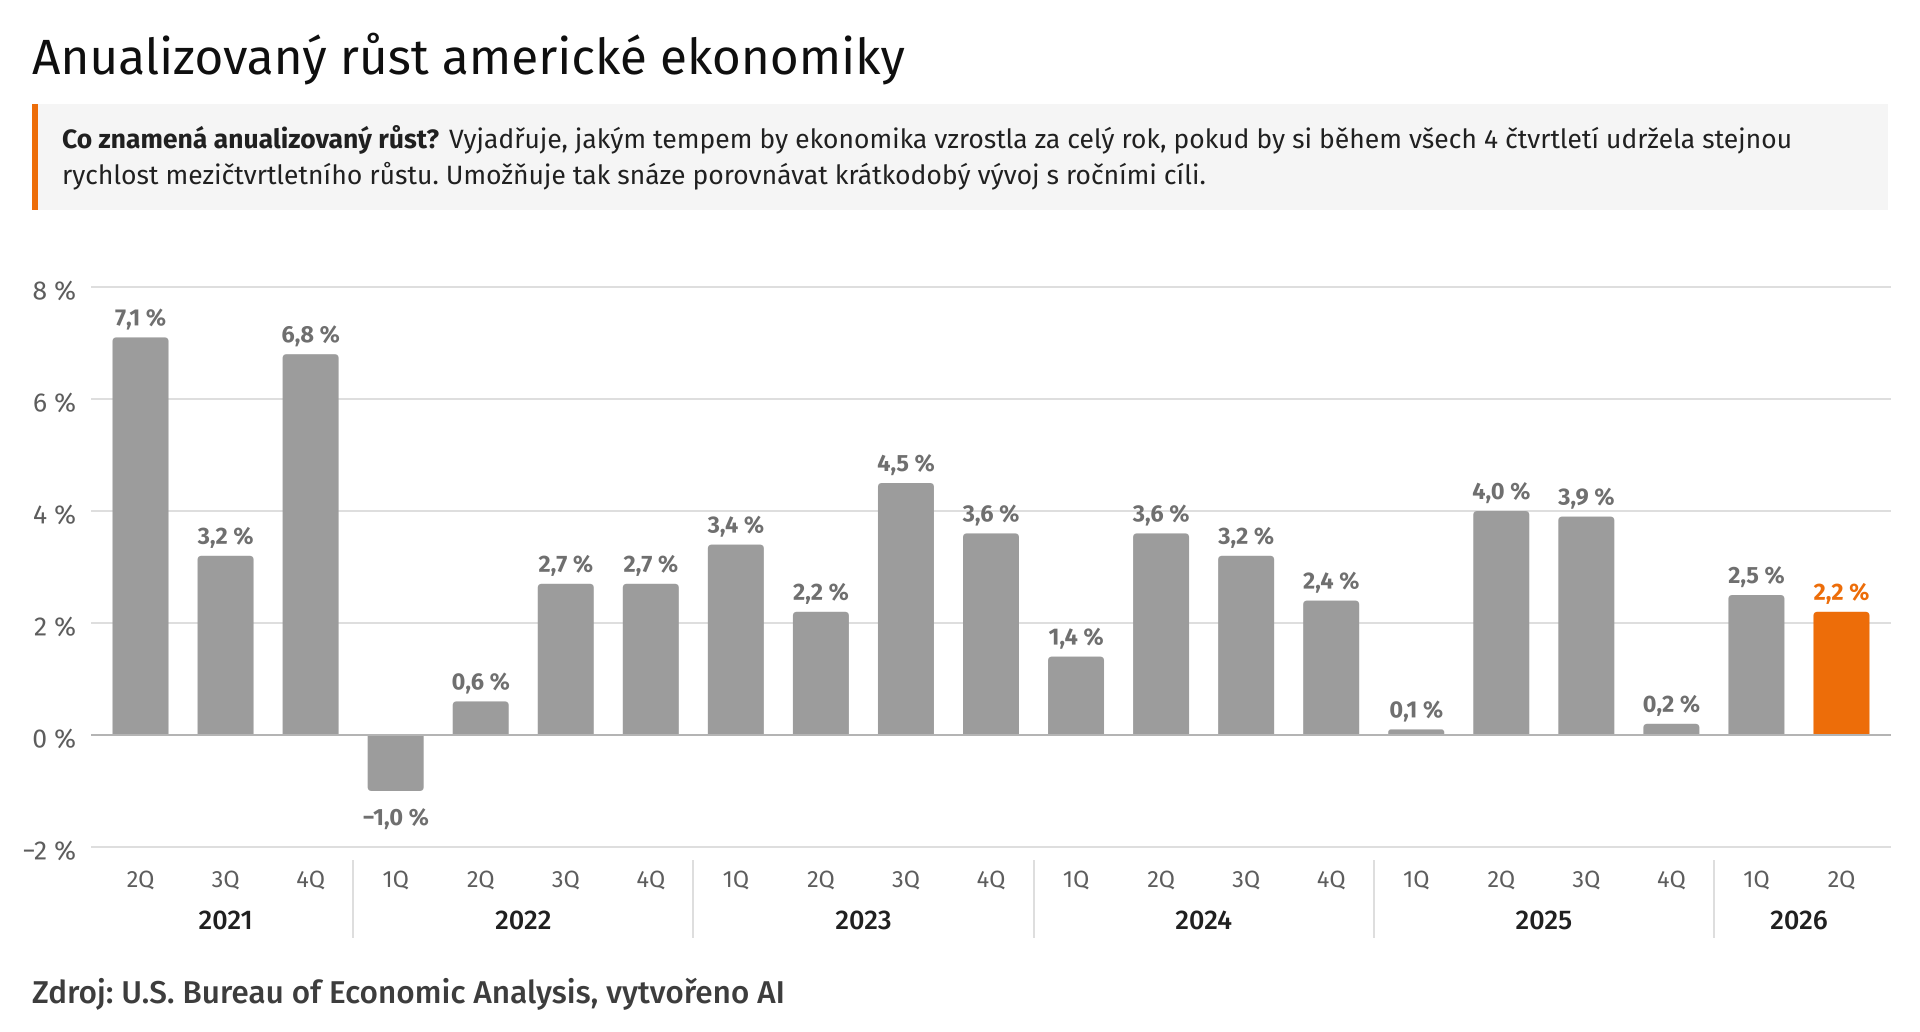
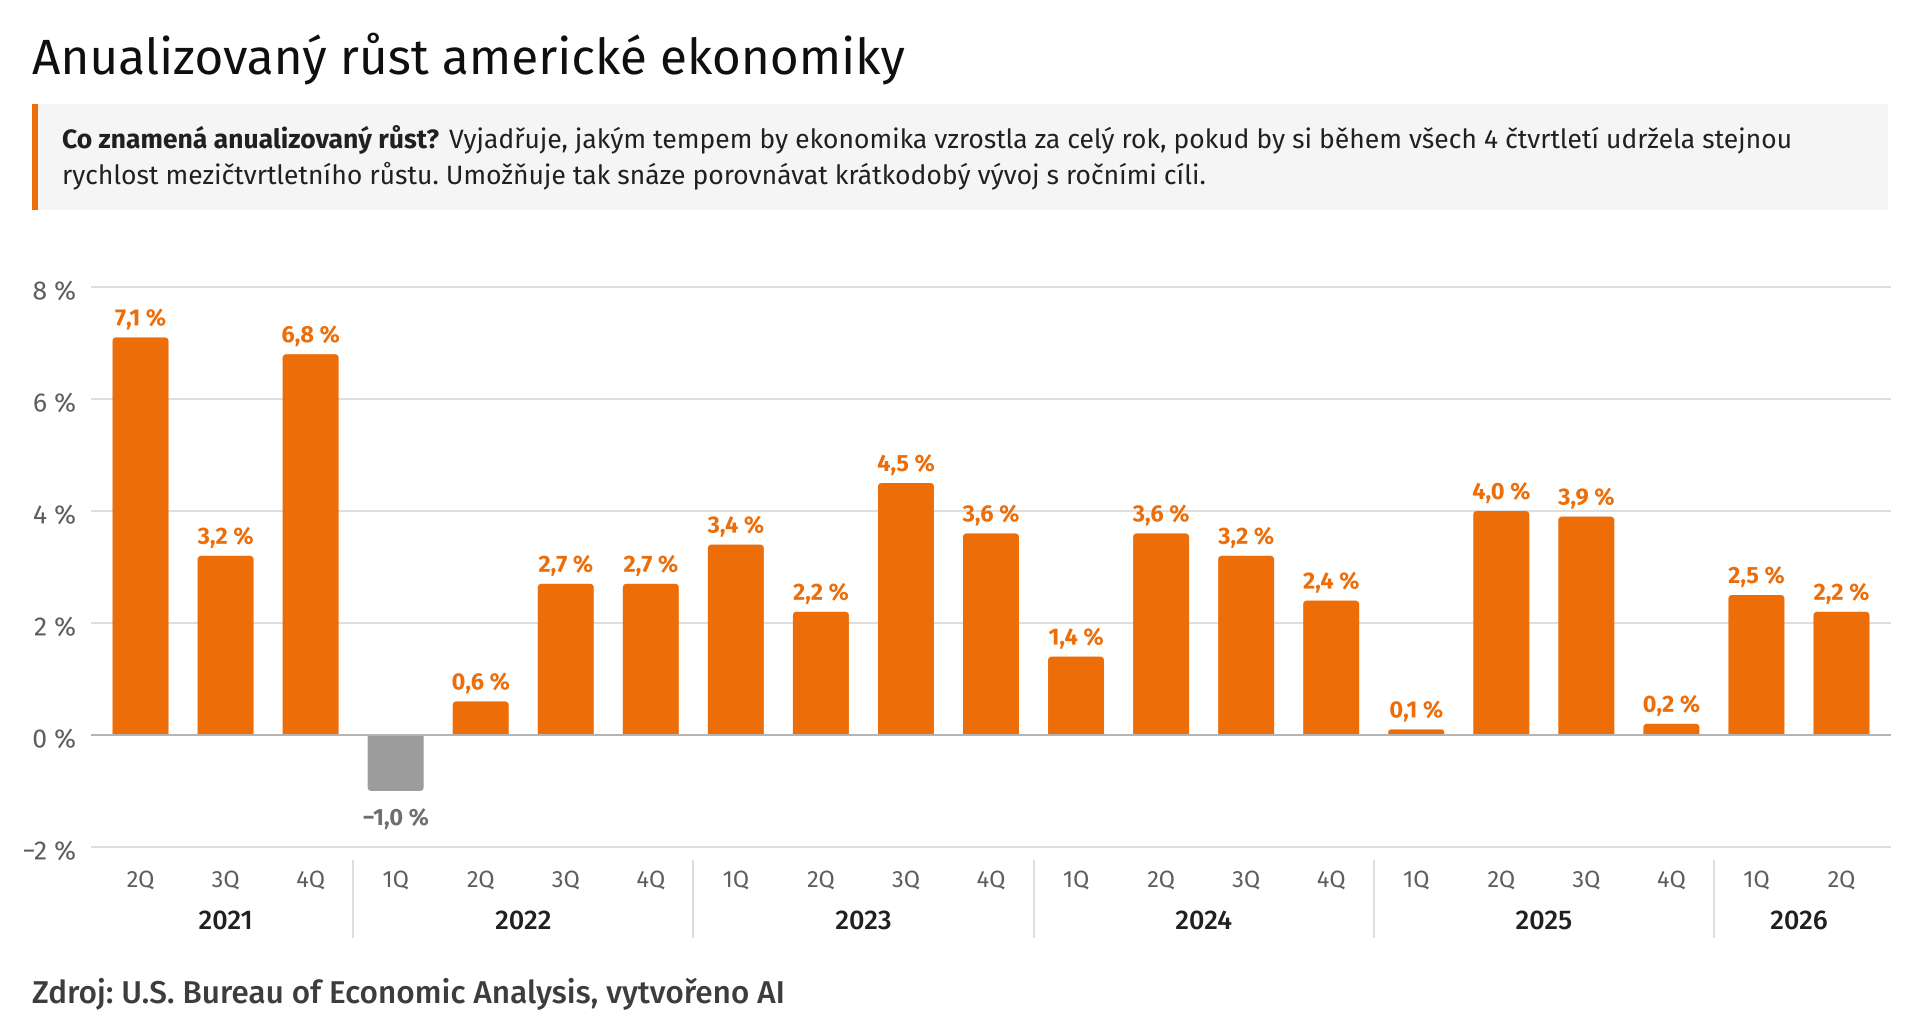
Graf HDP USA (ZFPA): kladné sloupce oranžově, záporný šedě
Claude-Session: https://claude.ai/code/session_01A8r6cxYv4z3RaLJthvcQAS

Changed region(s): [[0.2188, 0.4341, 0.9375, 0.7132], [0.0312, 0.2791, 0.1875, 0.7132]]

diff --git a/vystupy/grafy/2026-10-14-hdp-usa-anualizovany-zfpa.py b/vystupy/grafy/2026-10-14-hdp-usa-anualizovany-zfpa.py
@@ -66,17 +66,16 @@ for hodnota in range(-2, 9, 2):
             linewidth=2 / z.PT, zorder=3 if hodnota == 0 else 1)
     text(76, y, z.cislo(hodnota, 0), 21, z.OSA, z.REGULAR, ha="right", va="center_baseline")
 
-# sloupce: šedé, poslední čtvrtletí oranžově
+# sloupce: kladné oranžově, záporné šedě
 ROZTEC = (PRAVA - LEVA - 12) / len(hodnoty)
 SIRKA = 56
 for i, (q, h) in enumerate(zip(ctvrtleti, hodnoty)):
-    posledni = i == len(hodnoty) - 1
-    barva = z.ORANZOVA if posledni else z.SEDA
+    barva = z.ORANZOVA if h >= 0 else z.SEDA
     x = LEVA + 6 + i * ROZTEC + (ROZTEC - SIRKA) / 2
     vyska = h * PX_NA_PROCENTO
     z.sloupec(ax, x, NULA, SIRKA, vyska, barva)
     if h >= 0:
-        text(x + SIRKA / 2, NULA - vyska - 12, z.cislo(h), 18, z.ORANZOVA if posledni else z.SEDA_POPISEK,
+        text(x + SIRKA / 2, NULA - vyska - 12, z.cislo(h), 18, z.ORANZOVA,
              z.BOLD, ha="center", va="baseline", zorder=4)
     else:
         text(x + SIRKA / 2, NULA - vyska + 12, z.cislo(h), 18, z.SEDA_POPISEK,
